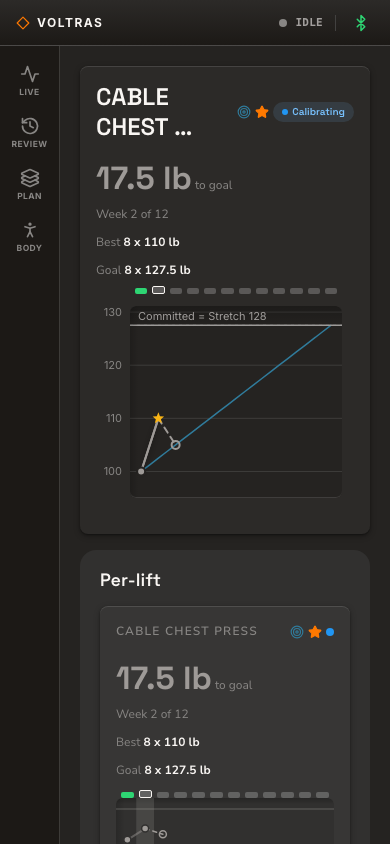
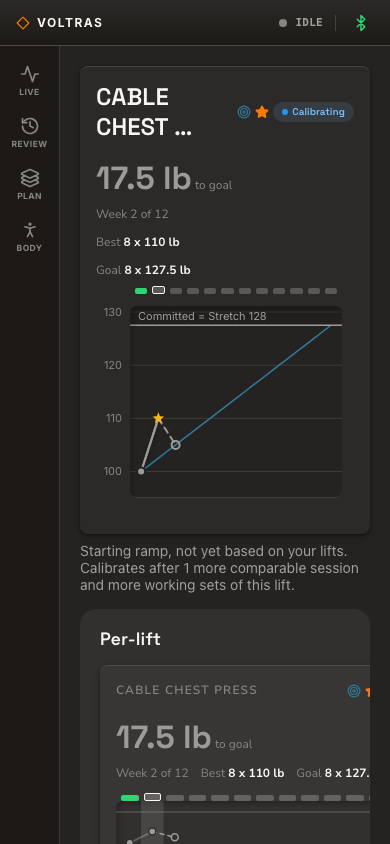
Regenerate the goals captures and add the VW-444 changelog entry

diff --git a/CHANGELOG.md b/CHANGELOG.md
@@ -48,6 +48,15 @@ entry is written from the user's point of view is a review question, not a check
 
 ### Added
 
+- A goal accepted before its lift is calibrated now says so. Under a calibrating goal card
+  the goals page reads "Starting ramp, not yet based on your lifts." followed by what
+  calibration still waits on: "1 more comparable session to calibrate.", or a set taken near
+  failure, or more working sets of the lift, with no invented count when the baseline is what
+  blocks. `/api/goal-progress` carries the same facts as a structured `calibration` field
+  (sessions still needed, which gate blocks, the baseline state, and the accepted target's
+  basis). `goal.propose_targets` and `goal.accept_target` add a `startingRamp` notice to a
+  cold lift target telling the coach to re-propose a data-based target once calibration ends.
+  Nothing stored changes, and nothing is refused (VW-444).
 - The goal coach now says when a goal is met. A target reads `goal_met` once a matched set
   lifts the committed number and `beyond_goal` once one passes it, and keeps that verdict for
   the rest of the block rather than slipping back to a pace word after a lighter week. Each
